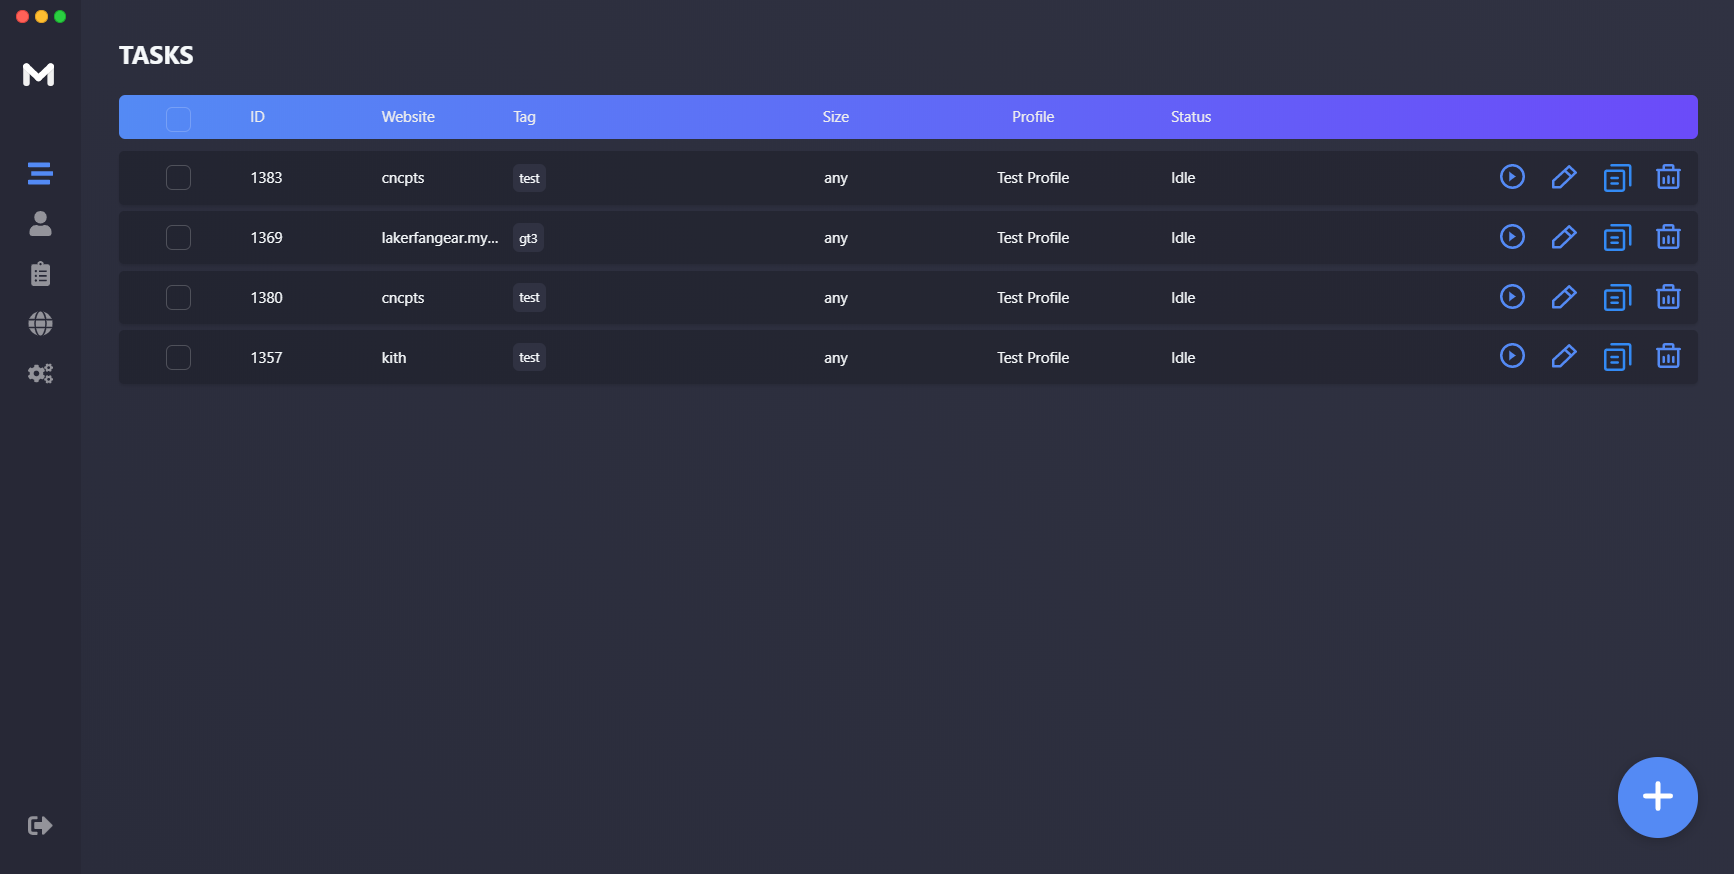
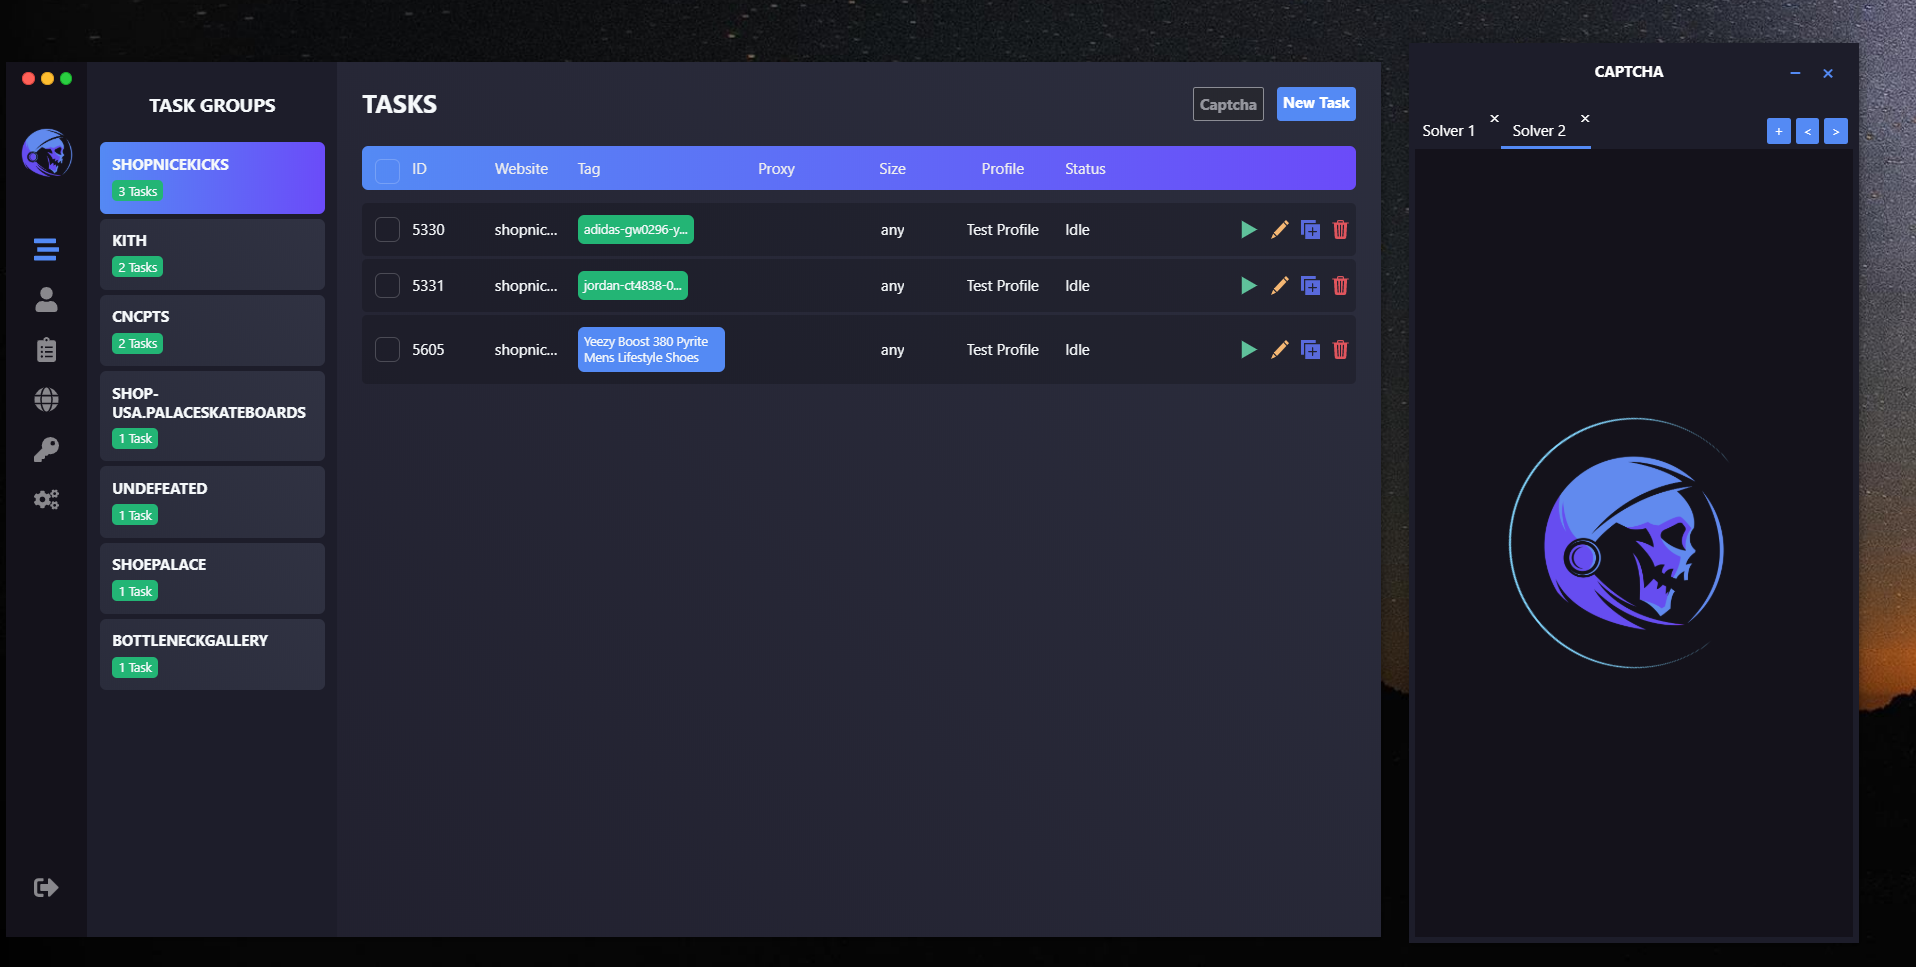
new projects add

diff --git a/src/index.html b/src/index.html
@@ -74,19 +74,33 @@
                             <h3 class="text-dark text-left mb-4 full-stack">
                                 I am full stack developer who has experience +7 years.
                             </h3>
-                            <li class="project-item text-left mb-3">  A fan of JS, who is keen on React, Angular, Vue, Redux, Typescript, GraphQL, Next.js, Nuxt.js, Electron
-                                with Electron, can develop shopify bot app.
+                            <li class="project-item text-left mb-3">
+                                Very experienced backend developer who have lived with Node.js/Express(Jade,Ejs)/Koa/Socket.io,
+                                Discord.js , Google+Discord+Steam oAuth, PHP/CMS/Laravel,Postgresql/Mysql/Mongodb/Typeorm,Firebase
                             </li>
-                            <li class="project-item text-left mb-3"> 3D Animation With Three.js
+                            <li class="project-item text-left mb-3">
+                                Very skilled developer in building modern website frontend using React/Redux/Typescript/Vue/Angular/GraphQL/Next/Nuxt Webpack/Grunt/Babel/Eslint/Stylelint/Prettier/Code Obfuscator
+                            </li>
+                            <li class="project-item text-left mb-3">
+                                Intelligent developer with Web3/DApp/Dex/Smart Contract/NFT
                             </li>
                             <li class="project-item text-left mb-3">
                                 Full experience with PostgreSql, Mysql, Mongodb, Firebase.
                             </li>
                             <li class="project-item text-left mb-3">
-                                A lover of JS/PHP, who is focusing on Node.js, Express, Socket.io, PHP, Wordpress, Laravel, WebRTC.
+                                3D Geometry With Three.js
                             </li>
                             <li class="project-item text-left mb-3">
-                                Also has good experience on CEF project, video streaming, Image processing, System-level c++ application such as service, Credential customization.
+                                Cross Platform Application development using Electron.js
+                            </li>
+                            <li class="project-item text-left mb-3">
+                                CEF project, Video Streaming, Image processing, System-level c++ Application, ASP .net, C#,Java.
+                            </li>
+                            <li class="project-item text-left mb-3">
+                                AWS/Heroku/Cpanel/Vps Hosting. High OS knowledge.
+                            </li>
+                            <li class="project-item text-left mb-3">
+                                Experience on project design, problem solving.
                             </li>
 
                         </div>
@@ -120,6 +134,71 @@
                 <!-- end row -->
 
                 <div class="row">
+
+                    <div class="col-xl-4 col-sm-6 mb-3">
+                        <div class="media mt-1 mb-3 project-img-container">
+                            <img src="images/projects/crypto.png" class="img-thumbnail">
+                        </div>
+                        <div class="media p-1 mt-3 text-center">
+                            <a class="text-primary text-center" target="_blank" href="https://crypto-change.herokuapp.com/"
+                               style="cursor: pointer;width: 100%;">Crypto Token Swap Project(React+Web3+Crypto API)</a>
+                        </div>
+                    </div>
+                    <div class="col-xl-4 col-sm-6 mb-3">
+                        <div class="media mt-1 mb-3 project-img-container">
+                            <img src="images/projects/nft.png">
+                        </div>
+                        <div class="media p-1 mt-3 text-center">
+                            <a class="text-primary text-center" target="_blank" href="https://nft-preview.herokuapp.com/"
+                               style="cursor: pointer;width: 100%;">NFT Market Place(React+NFT)</a>
+                        </div>
+                    </div>
+                    <div class="col-xl-4 col-sm-6 mb-3">
+                        <div class="media mt-1 mb-3 project-img-container">
+                            <img src="images/projects/crypto_mafia.png">
+                        </div>
+                        <div class="media p-1 mt-3 text-center">
+                            <a class="text-primary text-center" href="javascript:alert('hosting soon');"
+                               style="cursor: pointer;width: 100%;">Crypto Mafia Game(Express+Socket.io+Mongodb+Discord oAuth)</a>
+                        </div>
+                    </div>
+                    <div class="col-xl-4 col-sm-6 mb-3">
+                        <div class="media mt-1 mb-3 project-img-container">
+                            <img src="images/projects/cse_vue.png">
+                        </div>
+                        <div class="media p-1 mt-3 text-center">
+                            <a class="text-primary text-center"  target="_blank" href="https://cseportal.vercel.app/login"
+                               style="cursor: pointer;width: 100%;">CSE Event Portal(Vue + Tailwind)</a>
+                        </div>
+                    </div>
+                    <div class="col-xl-4 col-sm-6 mb-3">
+                        <div class="media mt-1 mb-3 project-img-container">
+                            <img src="images/projects/angular_signature.png">
+                        </div>
+                        <div class="media p-1 mt-3 text-center">
+                            <a class="text-primary text-center"  target="_blank" href="https://anuglar-signiture.web.app/"
+                               style="cursor: pointer;width: 100%;">Angular PDF Signature App</a>
+                        </div>
+                    </div>
+                    <div class="col-xl-4 col-sm-6 mb-3">
+                        <div class="media mt-1 mb-3 project-img-container">
+                            <img src="images/projects/barcode.png">
+                        </div>
+                        <div class="media p-1 mt-3 text-center">
+                            <a class="text-primary text-center" target="_blank" href="https://barcode.fivestarsmobi.com/barcode/"
+                               style="cursor: pointer;width: 100%;">Web-based Barcode Reader</a>
+                        </div>
+                    </div>
+                    <div class="col-xl-4 col-sm-6 mb-3">
+                        <div class="media mt-1 mb-3 project-img-container">
+                            <img src="images/projects/electron.png">
+                        </div>
+                        <div class="media p-1 mt-3 text-center">
+                            <a class="text-primary text-center" target="_blank" href="https://drive.google.com/file/d/19rwfvn0EXtbgGTPDbFva67vv90JG-Lo3/view?usp=sharing"
+                               style="cursor: pointer;width: 100%;">Electron Shopify Bot App</a>
+                        </div>
+                    </div>
+
                     <div class="col-xl-4 col-sm-6 mb-3">
                         <div class="media mt-1 mb-3 project-img-container">
                             <img class="img-thumbnail" src="images/projects/wordpress.png">
@@ -134,15 +213,6 @@
                     </div>
                     <div class="col-xl-4 col-sm-6 mb-3">
                         <div class="media mt-1 mb-3 project-img-container">
-                            <img src="images/projects/crypto.png" class="img-thumbnail">
-                        </div>
-                        <div class="media p-1 mt-3 text-center">
-                            <a class="text-primary text-center" target="_blank" href="https://crypto-change.herokuapp.com/"
-                               style="cursor: pointer;width: 100%;">Crypto Token Swap Project</a>
-                        </div>
-                    </div>
-                    <div class="col-xl-4 col-sm-6 mb-3">
-                        <div class="media mt-1 mb-3 project-img-container">
                             <img src="images/projects/plugin.png">
                         </div>
                         <div class="media p-1 mt-3 text-center">
@@ -150,24 +220,9 @@
                                style="cursor: pointer;width: 100%;">Wordpress Plugin Project</a>
                         </div>
                     </div>
-                    <div class="col-xl-4 col-sm-6 mb-3">
-                        <div class="media mt-1 mb-3 project-img-container">
-                            <img src="images/projects/nft.png">
-                        </div>
-                        <div class="media p-1 mt-3 text-center">
-                            <a class="text-primary text-center" target="_blank" href="https://nft-preview.herokuapp.com/"
-                               style="cursor: pointer;width: 100%;">NFT Market Place</a>
-                        </div>
-                    </div>
-                    <div class="col-xl-4 col-sm-6 mb-3">
-                        <div class="media mt-1 mb-3 project-img-container">
-                            <img src="images/projects/barcode.png">
-                        </div>
-                        <div class="media p-1 mt-3 text-center">
-                            <a class="text-primary text-center" target="_blank" href="https://barcode.fivestarsmobi.com/barcode/"
-                               style="cursor: pointer;width: 100%;">Web-based Barcode Reader</a>
-                        </div>
-                    </div>
+
+
+
                     <div class="col-xl-4 col-sm-6 mb-3">
                         <div class="media mt-1 mb-3 project-img-container">
                             <img src="images/projects/room_planner.png">
@@ -186,7 +241,7 @@
                                style="cursor: pointer;width: 100%;">Mahjong</a>
                         </div>
                     </div>
-                    <div class="col-xl-4 col-sm-6 mb-3">
+                    <!--<div class="col-xl-4 col-sm-6 mb-3">
                         <div class="media mt-1 mb-3 project-img-container">
                             <img src="images/projects/earth.png">
                         </div>
@@ -194,7 +249,7 @@
                             <a class="text-primary text-center" target="_blank" href="./samples/earth/index.html"
                                style="cursor: pointer;width: 100%;">Earth</a>
                         </div>
-                    </div>
+                    </div>-->
                     <div class="col-xl-4 col-sm-6 mb-3">
                         <div class="media mt-1 mb-3 project-img-container">
                             <img src="images/projects/three.js.png">
@@ -383,7 +438,7 @@
                                         <div class="bg-primary py-3 mt-2">
                                             <h5 class="plan-title text-white text-uppercase font-16 mb-0">FrontEnd Development</h5>
                                         </div>
-                                        <h2 class="mt-4 pt-2"><sup><small>$</small></sup>30</h2>
+                                        <h2 class="mt-4 pt-2"><sup><small>$</small></sup>35</h2>
                                         <div class="plan-duration text-muted">Per Hour</div>
                                     </div>
 
@@ -405,7 +460,7 @@
                                         <div class="bg-primary py-3 mt-2">
                                             <h5 class="plan-title text-white text-uppercase font-16 mb-0">Backend+Frontend Application</h5>
                                         </div>
-                                        <h2 class="mt-4 pt-2"><sup><small>$</small></sup>35</h2>
+                                        <h2 class="mt-4 pt-2"><sup><small>$</small></sup>40</h2>
                                         <div class="plan-duration text-muted">Per Hour</div>
                                     </div>
 
@@ -452,7 +507,7 @@
         <!-- Pricing end -->
 
 
-        
+
 
         <!-- Footer start -->
         <footer class="bg-dark footer pt-5" id="contactme">
@@ -491,8 +546,8 @@
 
         </footer>
         <!-- Footer end -->
-        
-        <!-- Back to top -->    
+
+        <!-- Back to top -->
         <a href="#" class="back-to-top" id="back-to-top"> <i class="mdi mdi-chevron-up"> </i> </a>
 
         <!-- Javascript -->
